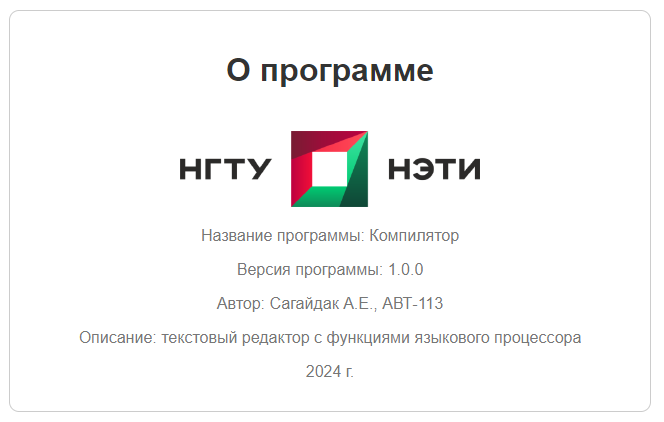
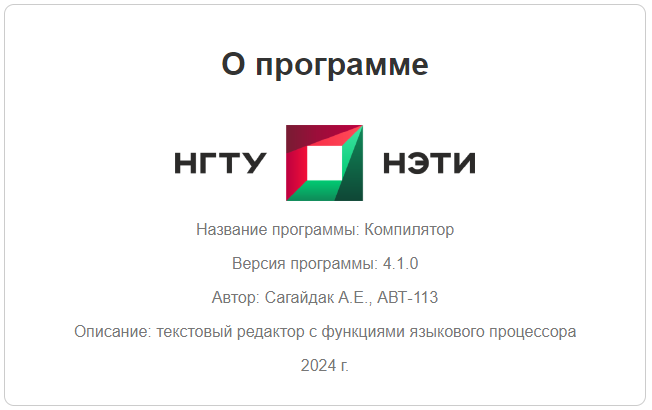
updated readme images

diff --git a/Compiler/Resources/Help.html b/Compiler/Resources/Help.html
@@ -15,50 +15,55 @@
         <li><a href="#menu_edit">Правка</a></li>
         <li><a href="#menu_edit">Правка</a></li>
         <li><a href="#menu_text">Текст</a></li>
+        <li><a href="#menu_start">Пуск</a></li>
         <li><a href="#menu_help">Справка</a></li>
+        <li><a href="#menu_fix">Исправить найденные ошибки</a></li>
     </ul>
 
 
     <h2 id="menu_file">Файл</h2>
     <ul>
-        <li><strong>Создать</strong><br/>Создает новый файл для редактирования.</li>
-        <li><strong>Открыть</strong><br/>Открывает существующий файл для редактирования.</li>
-        <li><strong>Сохранить</strong><br/>Сохраняет текущее состояние файла.</li>
-        <li><strong>Сохранить как</strong><br/>Сохраняет текущее состояние файла с новым именем.</li>
-        <li><strong>Выход</strong><br/>Закрывает текстовый редактор.</li>
+        <li><strong>Создать</strong><br />Создает новый файл для редактирования.</li>
+        <li><strong>Открыть</strong><br />Открывает существующий файл для редактирования.</li>
+        <li><strong>Сохранить</strong><br />Сохраняет текущее состояние файла.</li>
+        <li><strong>Сохранить как</strong><br />Сохраняет текущее состояние файла с новым именем.</li>
+        <li><strong>Выход</strong><br />Закрывает текстовый редактор.</li>
     </ul>
 
     <h2 id="menu_edit">Правка</h2>
     <ul>
-        <li><strong>Отменить</strong><br/>Отменяет последнее действие.</li>
-        <li><strong>Повторить</strong><br/>Повторяет последнее отмененное действие.</li>
-        <li><strong>Вырезать</strong><br/>Удаляет выбранный текст и копирует его в буфер обмена.</li>
-        <li><strong>Копировать</strong><br/>Копирует выбранный текст в буфер обмена.</li>
-        <li><strong>Вставить</strong><br/>Вставляет текст из буфера обмена в текущее место курсора.</li>
-        <li><strong>Удалить</strong><br/>Удаляет выбранный текст.</li>
-        <li><strong>Выделить все</strong><br/>Выделяет весь текст в редакторе.</li>
+        <li><strong>Отменить</strong><br />Отменяет последнее действие.</li>
+        <li><strong>Повторить</strong><br />Повторяет последнее отмененное действие.</li>
+        <li><strong>Вырезать</strong><br />Удаляет выбранный текст и копирует его в буфер обмена.</li>
+        <li><strong>Копировать</strong><br />Копирует выбранный текст в буфер обмена.</li>
+        <li><strong>Вставить</strong><br />Вставляет текст из буфера обмена в текущее место курсора.</li>
+        <li><strong>Удалить</strong><br />Удаляет выбранный текст.</li>
+        <li><strong>Выделить все</strong><br />Выделяет весь текст в редакторе.</li>
     </ul>
 
     <h2 id="menu_text">Текст</h2>
     <ul>
-        <li><strong>Постановка задачи</strong><br/>Открывает html-документ с описанием задачи.</li>
-        <li><strong>Грамматика</strong><br/>Открывает html-документ с описанием грамматики.</li>
-        <li><strong>Классификация грамматики</strong><br/>Открывает html-документ с классификацией грамматики по Хомскому.</li>
-        <li><strong>Метод анализа</strong><br/>Открывает html-документ с описанием метода синтаксического анализа.</li>
-        <li><strong>Диагностика и нейтрализация ошибок</strong><br/>Открывает html-документ с описанием метода диагностики и нейтрализации ошибок.</li>
-        <li><strong>Тестовый пример</strong><br/>Открывает в окне редактора файл с готовым тестовым примером.</li>
-        <li><strong>Список литературы</strong><br/>Открывает html-документ со списком полезной литературы по теме работы.</li>
-        <li><strong>Исходный код программы</strong><br/>Ссылка на репозиторий GitHub с исходным кодом программы.</li>
+        <li><strong>Постановка задачи</strong><br />Открывает html-документ с описанием задачи.</li>
+        <li><strong>Грамматика</strong><br />Открывает html-документ с описанием грамматики.</li>
+        <li><strong>Классификация грамматики</strong><br />Открывает html-документ с классификацией грамматики по Хомскому.</li>
+        <li><strong>Метод анализа</strong><br />Открывает html-документ с описанием метода синтаксического анализа.</li>
+        <li><strong>Диагностика и нейтрализация ошибок</strong><br />Открывает html-документ с описанием метода диагностики и нейтрализации ошибок.</li>
+        <li><strong>Тестовый пример</strong><br />Открывает в окне редактора файл с готовым тестовым примером.</li>
+        <li><strong>Список литературы</strong><br />Открывает html-документ со списком полезной литературы по теме работы.</li>
+        <li><strong>Исходный код программы</strong><br />Ссылка на репозиторий GitHub с исходным кодом программы.</li>
     </ul>
 
-    <h2 id="menu_start">Пуск</h2>
+    <h2 id="menu_start">Пуск (F5)</h2>
     <p>Сканирование текста и запуск синтаксического анализатора с выводом всех ошибок в таблицу во вкладке "Парсер" и всех найденных лексем в таблицу во вкладке "Сканер".</p>
 
     <h2 id="menu_help">Справка</h2>
     <ul>
-        <li><strong>Вызов справки</strong><br/>Отображает окно справки с описанием функций редактора.</li>
-        <li><strong>О программе</strong><br/>Показывает информацию о текстовом редакторе и его версии.</li>
+        <li><strong>Вызов справки</strong><br />Отображает окно справки с описанием функций редактора.</li>
+        <li><strong>О программе</strong><br />Показывает информацию о текстовом редакторе и его версии.</li>
     </ul>
+
+    <h2 id="menu_fix">Исправить найденные ошибки (F6)</h2>
+    <p>При нахождении ошибок в левом нижнем углу отобразится их количество и появится кнопка, предлагающая исправить их автоматически в один клик.</p>
 </body>
 
 

diff --git a/Compiler/Views/MainWindow.xaml b/Compiler/Views/MainWindow.xaml
@@ -9,7 +9,7 @@
         xmlns:materialDesign="http://materialdesigninxaml.net/winfx/xaml/themes"
         xmlns:cmd="http://schemas.microsoft.com/winfx/2006/xaml/presentation/command"
         mc:Ignorable="d" DragEnter="Window_DragEnter" Drop="Window_Drop"
-        Title="{Binding WindowTitle}" Height="700" Width="1100" MinHeight="300" MinWidth="400" Icon="../Resources/logo.ico" Loaded="Window_Loaded">
+        Title="{Binding WindowTitle}" Height="700" PreviewKeyDown="Window_PreviewKeyDown" Width="1100" MinHeight="300" MinWidth="400" Icon="../Resources/logo.ico" Loaded="Window_Loaded">
 
     <Window.Resources>
         <local:IncrementConverter x:Key="IncrementConverter" />
@@ -98,7 +98,7 @@
                 <MenuItem Header="Классификация грамматики" Command="{Binding GrammarClassificationCommand}"/>
                 <MenuItem Header="Метод анализа" Command="{Binding MethodOfAnalysisCommand}"/>
                 <MenuItem Header="Диагностика и нейтрализация ошибок" Command="{Binding NeutralizingErrorsCommand}"/>
-                <MenuItem Header="Тестовый пример" ItemContainerStyle="{StaticResource MenuItemStyle}">
+                <MenuItem Header="Тестовые примеры" ItemContainerStyle="{StaticResource MenuItemStyle}">
                     <MenuItem Header="Верные данные" Command="{Binding OpenTestCaseCommand}"/>
                     <MenuItem Header="Ошибочные данные" Command="{Binding OpenWrongTestCaseCommand}"/>
                 </MenuItem>
@@ -264,17 +264,8 @@
             <TextBlock Text="{Binding IncorrectLexemes.Count}" Margin="5 0 5 0" HorizontalAlignment="Left" VerticalAlignment="Center" FontSize="16"/>
             <Button Padding="0" x:Name="magicButton" Command="{Binding RemoveErrorsCommand}" Margin="0" Height="16" BorderBrush="#00481E94" Foreground="#FF1F2DFF" Background="#00E1FFD0" VerticalAlignment="Center" HorizontalAlignment="Center">
                 <Button.ToolTip>
-                    <ToolTip Content="Исправить найденные ошибки" />
+                    <ToolTip Content="Исправить найденные ошибки (F6)" />
                 </Button.ToolTip>
-                <Button.Style>
-                    <Style TargetType="Button">
-                        <Style.Triggers>
-                            <Trigger Property="IsMouseOver" Value="True">
-                                <Setter Property="Background" Value="#0048C7F1" />
-                            </Trigger>
-                        </Style.Triggers>
-                    </Style>
-                </Button.Style>
                 <materialDesign:PackIcon Kind="AutoFix" />
             </Button>
         </StackPanel>

diff --git a/Compiler/Resources/About.html b/Compiler/Resources/About.html
@@ -44,7 +44,7 @@
         <h1>О программе</h1>
         <img src="logo.png" alt="Логотип">
         <p>Название программы: Компилятор</p>
-        <p>Версия программы: 4.0.1</p>
+        <p>Версия программы: 4.1.0</p>
         <p>Автор: Сагайдак А.Е., АВТ-113</p>
         <p>Описание: текстовый редактор с функциями языкового процессора</p>
         <p>2024 г.</p>

diff --git a/Compiler/Views/MainWindow.xaml.cs b/Compiler/Views/MainWindow.xaml.cs
@@ -175,5 +175,19 @@ namespace Compiler
                 catch { }
             }));
         }
+
+        private void Window_PreviewKeyDown(object sender, KeyEventArgs e)
+        {
+            if (e.Key == Key.F5)
+            {
+                ((MainWindowViewModel)(DataContext)).StartAnalyzersCommand.Execute(null);
+                e.Handled = true;
+            }
+            else if (e.Key == Key.F6)
+            {
+                ((MainWindowViewModel)(DataContext)).RemoveErrorsCommand.Execute(null);
+                e.Handled = true;
+            }
+        }
     }
 }
